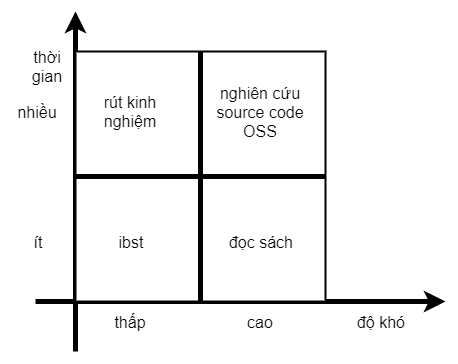
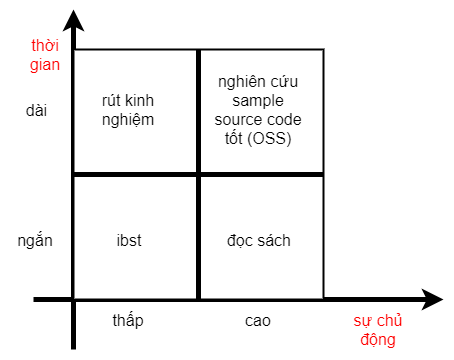
ibst (wip) ibst: what is good code (wip)

diff --git a/_drafts/ibst.md b/_drafts/ibst.md
@@ -14,15 +14,17 @@ Vấn đề chất lượng source code không chỉ là vấn đề của riên
 
 Vì thế mình quyết định viết một series bài viết về chủ đề này, nhằm mục đích đúc kết những kinh nghiệm mà mình quan sát được trong quá trình review và phân tích chất lượng source code đến hiện tại.
 
-### Sự khác biệt của ibst với những phương pháp khác
+### ibst cùng với những phương pháp cải thiện khác
 
 ![ibst what is it](/assets/ibst-what-is-it.png)
 
-Hướng đến sự hiệu quả, dành cho mọi đối tượng.
+Là nội dung hướng dẫn ngắn hạn, hướng đến việc sửa những lỗi cơ bản trong thời gian ngắn.
 
-Nhược điểm: vì là nội dung đơn giản nên có thể nhiều mục trong đây bạn đã biết.
+Không thay thế được các phương pháp khác vì bản chất phức tạp của việc lập trình không thể tổng hợp được với mọi người. Cần tự nghiên cứu và đúc kết cho bản thân mình.
 
 ### Danh sách nội dung
+
+Thế nào là code tốt
 
 Naming (đặt tên biến, hàm)
 - Naming tổng quát

diff --git a/_drafts/ibst-what-is-good-code.md b/_drafts/ibst-what-is-good-code.md
@@ -1,0 +1,17 @@
+---
+layout: single
+title: 'Improve code từ những việc đơn giản: thế nào là code tốt'
+---
+
+Code tốt có những đặc điểm:
+- Dễ hiểu, khi đọc code không cần đi vào quá chi tiết vẫn hiểu chức năng chính của code.
+- Hạn chế mức ảnh hưởng khi thay đổi, không gây ra lỗi bất ngờ.
+- Có đầy đủ test-code.
+
+Phân biệt giữa:
+- Dài / Ngắn
+- Dễ / Khó
+- Đơn giản / Phức tạp
+- Loose coupling / Coupling
+- Test manual / Test automation
+- Không document / Được document
